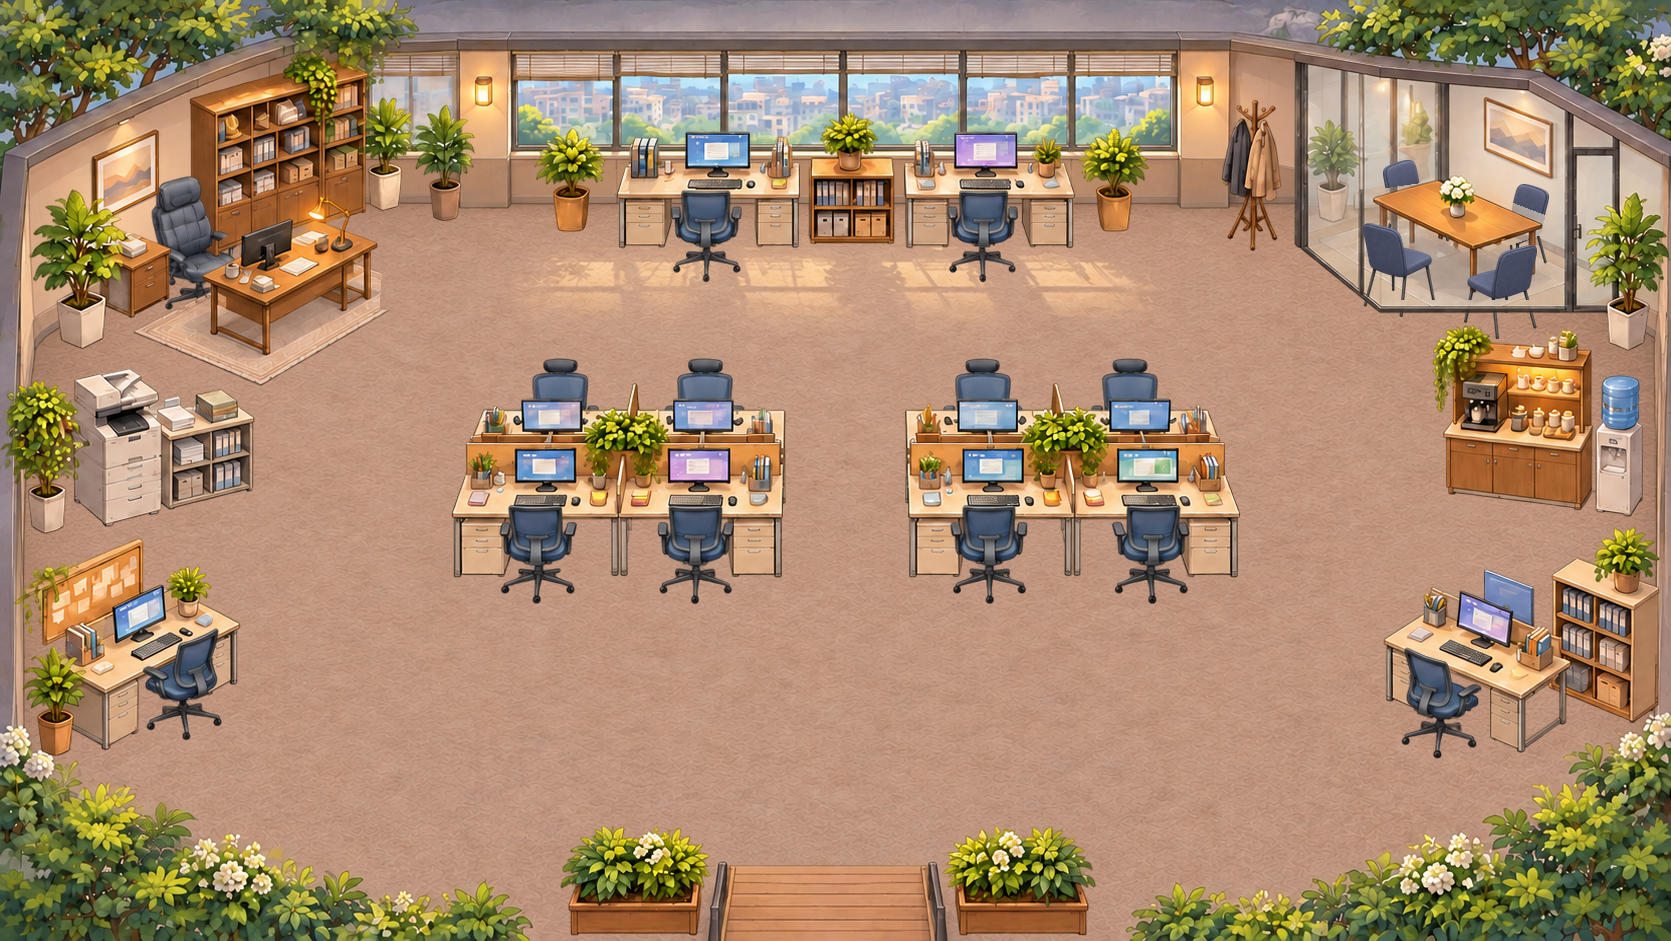
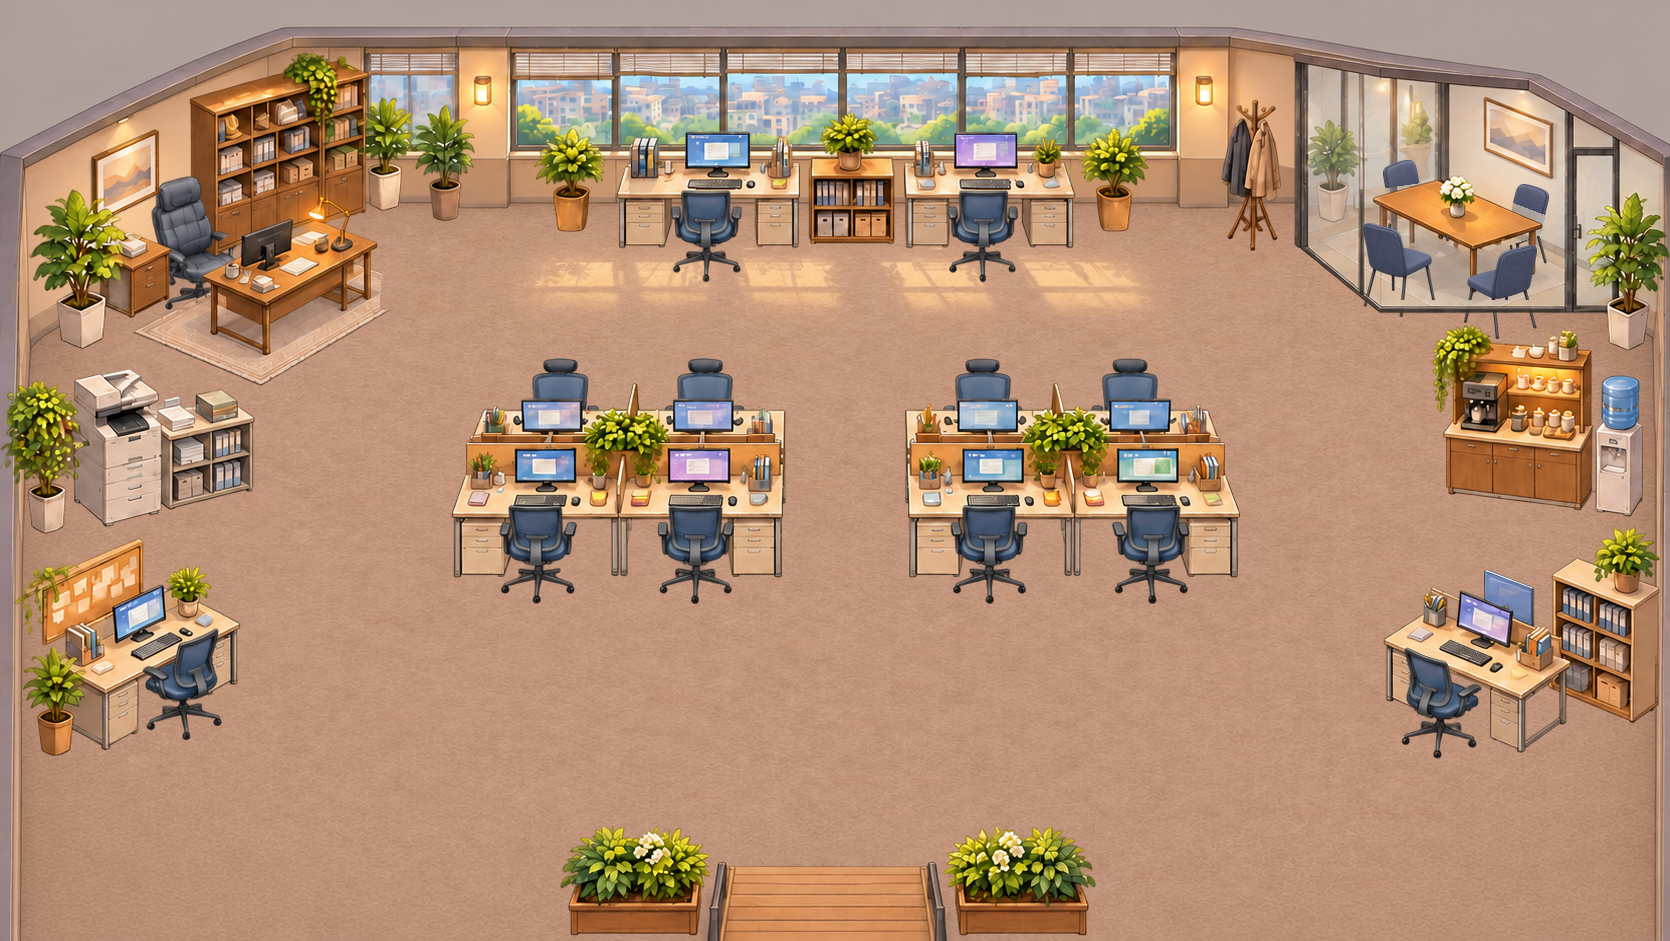
Remove outer foliage from office map and open cleared floor

diff --git a/lib/office-map.ts b/lib/office-map.ts
@@ -33,9 +33,7 @@ export const OFFICE_PROPS:PlazaPropDef[]=[
  chair('meeting_back_left','회의석 1',[1380,194],[1416,216],'down_right'),chair('meeting_back_right','회의석 2',[1550,222],[1516,240],'down_left'),
  chair('meeting_front_left','회의석 3',[1372,291],[1399,278],'up_right',true),chair('meeting_front_right','회의석 4',[1517,297],[1500,300],'up_left',true),
 ];
-export const OFFICE_THEME:PlazaThemeDef={id:'company_office',name:'회사 사무실',icon:'🏢',desc:'컴퓨터 업무석과 유리 회의실 · 의자 17자리',mapImg:'/plaza/office-v1/ground.png',smooth:true,preserveMapTone:true,worldSize:{w:W,h:H},actorZoom:1.25,skyClass:'bg-[#afa391]',floorBg:'#c6af99',decor:[],props:OFFICE_PROPS,
+export const OFFICE_THEME:PlazaThemeDef={id:'company_office',name:'회사 사무실',icon:'🏢',desc:'컴퓨터 업무석과 유리 회의실 · 의자 17자리',mapImg:'/plaza/office-v1/ground-v2.png',smooth:true,preserveMapTone:true,worldSize:{w:W,h:H},actorZoom:1.25,skyClass:'bg-[#afa391]',floorBg:'#c6af99',decor:[],props:OFFICE_PROPS,
  wallCols:[[0,0,.015,1],[.985,0,1,1],[0,.985,1,1]],wallPolys:[
  [p(0,0),p(W,0),p(W,180),p(1560,170),p(1350,150),p(1300,165),p(1200,205),p(270,205),p(30,340),p(0,370)],
- [p(0,725),p(150,817),p(540,920),p(560,H),p(0,H)],
- [p(W,725),p(1550,815),p(1110,920),p(1100,H),p(W,H)],
  ]};

diff --git a/docs/OFFICE_MAP.md b/docs/OFFICE_MAP.md
@@ -6,7 +6,7 @@
 
 ## 파일과 배치
 
-- `public/plaza/office-v1/ground.png`: 가구를 제거한 빈 바닥·건축 배경.
+- `public/plaza/office-v1/ground-v2.png`: 가구와 테두리의 나뭇잎·덤불을 제거한 빈 바닥·건축 배경. 실내 화분은 독립 에셋으로 유지한다.
 - 같은 디렉터리의 투명 PNG 38개: 가구 레이어 21개와 의자 17개. `assets.json`이 원래 캔버스에서의 위치와 크기를 보관한다.
 - `lib/office-map.ts`: 깊이, 충돌 다각형, 자리 접근점, 좌판 접점, 앉는 방향을 정의한다.
 - 해변과 같은 1672×941 월드 크기. 브라우저 크기가 변해도 맵과 가구의 실제 크기를 유지하고 카메라가 이동한다.
@@ -23,6 +23,12 @@
 로컬 브라우저에서는 배경 목록 선택, 컴퓨터 앞 착석, 기존 자리에서 반대편 자리로 걷기, 앞뒤 가림을 확인한다. 실제 방 사용자의 마이크나 강제 새로고침 기능은 시험에 사용하지 않는다.
 
 ## 생성 프롬프트
+
+### 테두리 식물 제거 (현재 배경)
+
+내장 image_gen으로 기존 `ground.png`만 수정했다. 원본은 보존하고 결과를 `ground-v2.png`에 저장했다. 아래쪽 덤불이 있던 모서리의 충돌 다각형도 제거해 새 바닥을 걸을 수 있다. 가구·좌석 정의는 동일하다.
+
+Edit this exact game background plate. Remove ALL decorative tree foliage, hanging leaves, flower bushes and shrubbery framing the OUTER EDGES of the image: the upper-left treetops, upper-right treetops, every leaf hanging over either upper wall corner, the entire lower-left and lower-right leaf/flower borders. Remove their cast shadows on the floor too. This is an indoor office, so no woodland or garden edging should surround the room. Replace the removed bottom foreground bushes with a seamless continuation of the existing taupe patterned carpet, all the way to both lower corners. Replace removed upper outer trees above the walls with a plain unobtrusive warm light-gray exterior background matching the gray strip behind the upper wall, with no new decorative objects. Preserve EXACTLY the existing office walls, wall trim, windows, city view and distant trees seen THROUGH the windows, wall paintings, wall lights, daylight floor patches, carpet texture, straight wooden bottom-center entrance/threshold, elevated oblique camera and the exact 1672x941 canvas. Do not move or resize anything, no new walls across the bottom, no new furniture, no plants, no text, no UI. This remains an EMPTY FLOOR PLATE; furniture will be separate layers added by the game. Only erase the outside framing leaves/bushes and naturally repair those local regions.
 
 공통 참조: 사용자가 승인한 원본 사무실 이미지(둥근 길과 길 조명이 제거된 버전). 카메라·1672×941 캔버스·가구 배치를 유지하도록 지정했다.
 
